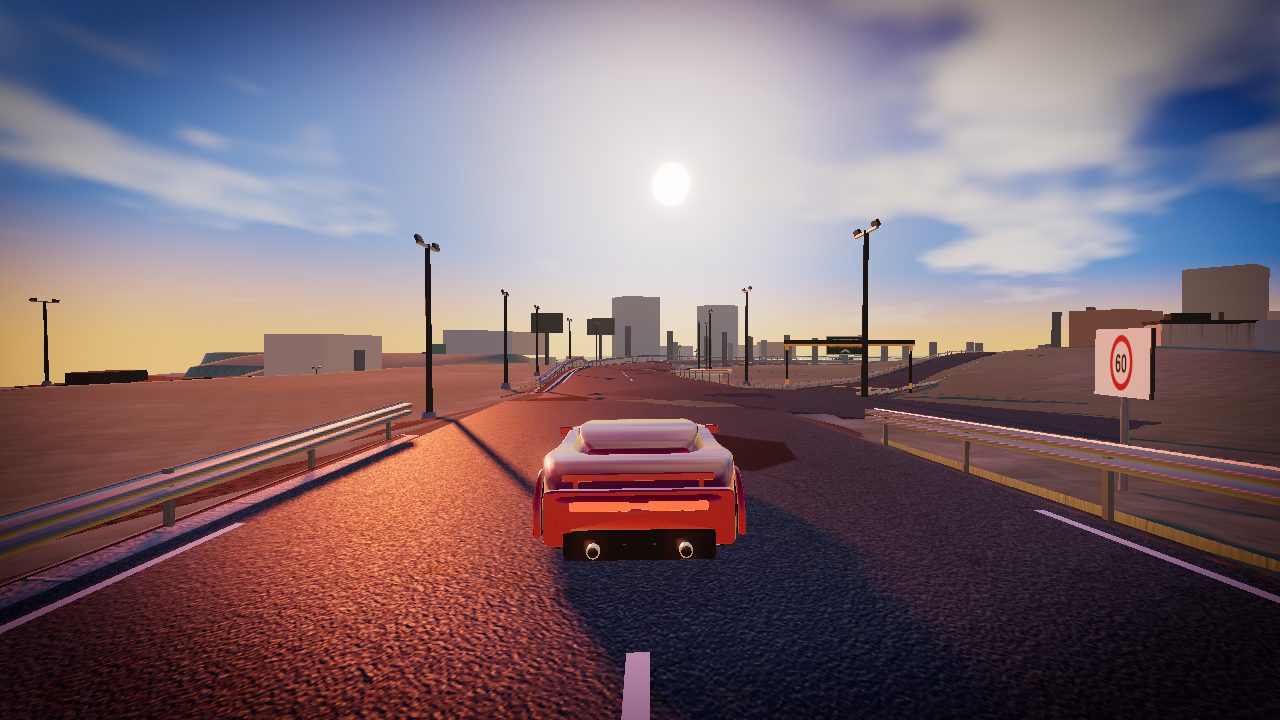
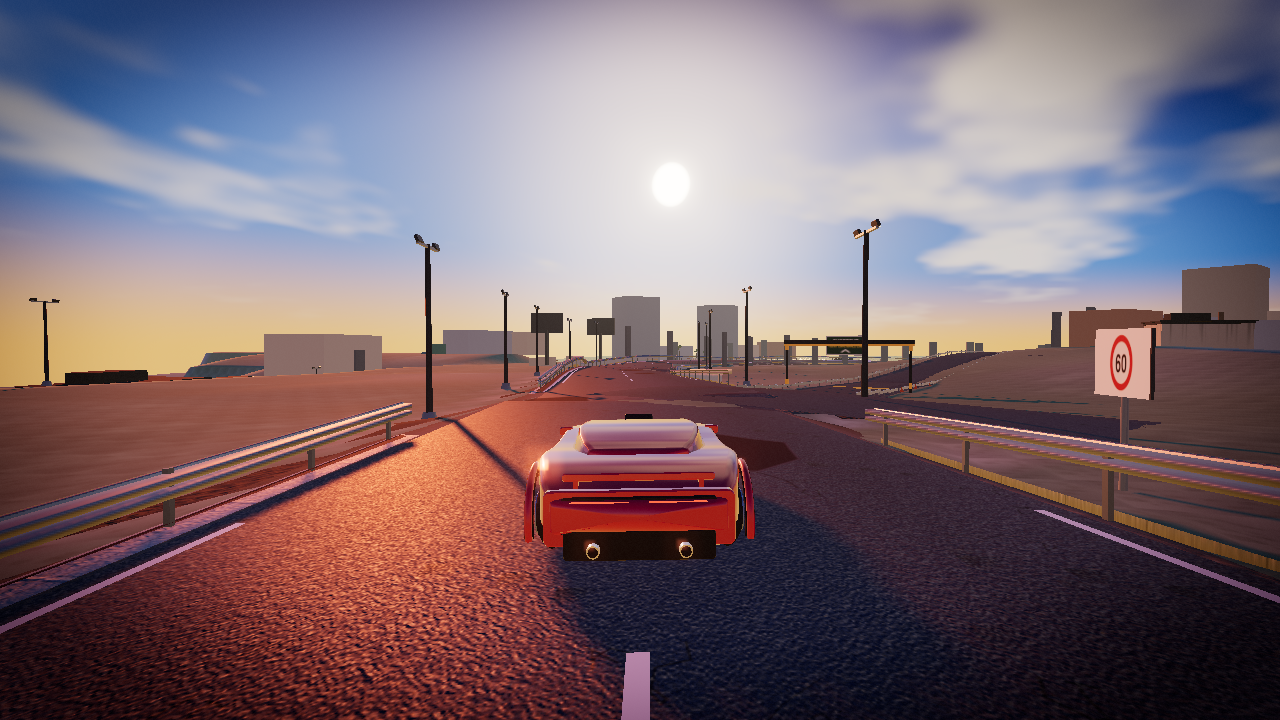
feat: per-model harness shots and selectModel dev hook

Changed region(s): [[0.4062, 0.6111, 0.5938, 0.7639], [0.4375, 0.8556, 0.4688, 0.8861]]

diff --git a/src/dev/harness.ts b/src/dev/harness.ts
@@ -12,6 +12,7 @@ import { roadPose, heroShot } from '../world/TrackSlice'
 import { spurAt, spurNear, spurTotal } from '../vehicles/TrackProbe'
 import { densityAudit } from '../world/StaticMerge'
 import { gridSlot } from '../game/RaceDirector'
+import type { CarId } from '../vehicles/CarSpecs'
 import type { Game } from '../game/Game'
 
 /* ---------------------------------------------------------------------------
@@ -61,6 +62,10 @@ export function installDevHarness(game: Game, canvas: HTMLCanvasElement, buildMs
     releasePose: () => game.releasePose(),
   })
 
+  /* dev-only: switch the player body (garage spec §8) for the model-shot battery */
+  ;(globalThis as unknown as { __selectModel?: (id: string) => string }).__selectModel =
+    (id: string) => { game.selectModel(id as CarId); return game.selectedSpec.id }
+
   /* query-driven debug material/culling levers (dev-only; forbidden by default) */
   const qp: Record<string, string> = {}
   for (const kv of location.search.slice(1).split('&')) { const i = kv.indexOf('='); if (i > 0) qp[kv.slice(0, i)] = kv.slice(i + 1) }
@@ -92,7 +97,7 @@ export function installDevHarness(game: Game, canvas: HTMLCanvasElement, buildMs
 
   /* ---------------- deterministic validation poses (Gate A/C batteries) ---- */
   const anchor = roadPose(slice.spline, slice.spline.sFromX(30), 0)
-  const onRoad = (camOff: [number, number, number], lookOff: [number, number, number], fov: number, extra: { speed?: number; drift?: boolean; nitro?: boolean } = {}): ShotPose => {
+  const onRoad = (camOff: [number, number, number], lookOff: [number, number, number], fov: number, extra: { speed?: number; drift?: boolean; nitro?: boolean; model?: string } = {}): ShotPose => {
     const cy = Math.cos(anchor.yaw), sy = Math.sin(anchor.yaw)
     const rot = (v: [number, number, number]): [number, number, number] => [
       anchor.pos[0] + v[0] * cy + v[2] * sy,
@@ -414,6 +419,14 @@ export function installDevHarness(game: Game, canvas: HTMLCanvasElement, buildMs
         freezeSim: true, tag: 'gate-m',
       })
     }
+  }
+
+  /* ---------------- per-model body shots (registered LAST) ------------------- */
+  // End-registration matters: shots.mjs captures in registry order on one page, so
+  // every pre-existing pose renders before the first selectModel call and the
+  // hero/grid/state battery stays untouched; each model shot sets its own body on arrival.
+  for (const id of ['hero', 'hyper', 'grip', 'drift']) {
+    Debug.registerPose(`car_${id}`, onRoad([7.55, 0.64, 0.10], [0, 0.58, 0], 26, { model: id }))
   }
 
   /* ---------------- dev probes (removed with the harness, spec §23.4) ------ */

diff --git a/src/game/Game.ts b/src/game/Game.ts
@@ -496,6 +496,10 @@ export class Game {
   applyPose(p: ShotPose): void {
     this.simFrozen = !!p.freezeSim
     this.frozenPose = p.freezeSim ? p : null
+    // frozen-capture model switch (dev shots): the harness pose carries the body id.
+    // set after frozenPose so selectModel's re-apply line re-enters with the car
+    // already rebuilt, and terminates via selectModel's same-id early-return.
+    if (p.player?.model && p.player.model !== this.selectedSpec.id) this.selectModel(p.player.model as CarId)
     // approved frames are pose-driven: transient effects never leak into a
     // frozen capture (and pose-capture clearing doubles as the restart hook)
     this.fx.clearAll()

diff --git a/src/assets/CarModel.ts b/src/assets/CarModel.ts
@@ -602,7 +602,7 @@ export function buildCar(paintHex: number, spec: CarSpec = HERO_SPEC): CarModel 
     const gt = spec.kit.spoiler === 'gt'
     for (const side of [-1, 1]) {
       const strut = new THREE.Mesh(new THREE.BoxGeometry(0.040, gt ? 0.20 : 0.120, 0.120), paint)
-      strut.position.set(side * 0.56, 0.755, 2.06)
+      strut.position.set(side * 0.56, gt ? 0.80 : 0.755, 2.06)
       group.add(named(strut, `spoiler-strut-${side < 0 ? 'l' : 'r'}`))
     }
     const blade = new THREE.Mesh(gt ? roundedPlateGeo(1.44, 0.05, 0.032, 0.013) : roundedPlateGeo(1.34, 0.045, 0.03, 0.012), paint)

diff --git a/src/core/Debug.ts b/src/core/Debug.ts
@@ -30,6 +30,8 @@ export interface ShotPose {
     susp?: number
     /** extra body roll beyond `bank` (rad) — drift skid lean */
     lean?: number
+    /** frozen-capture model switch (dev shots): id resolved via getSpec */
+    model?: string
   }
   freezeSim?: boolean
   parkAi?: boolean
